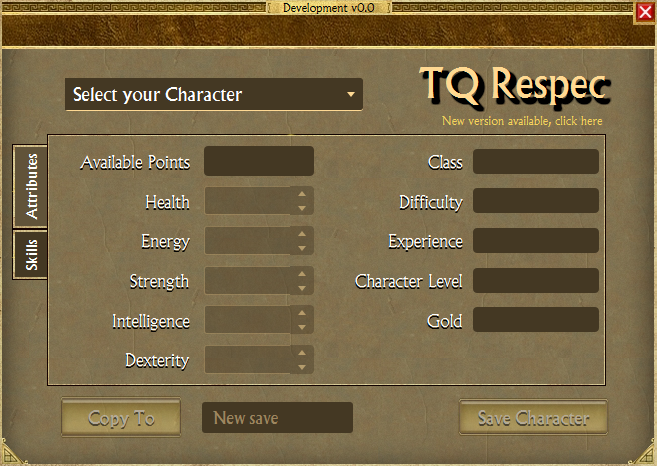
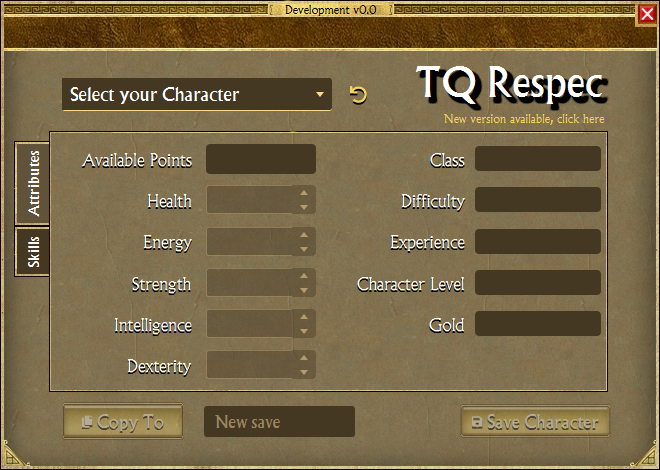
Version 0.7.0

diff --git a/README.md b/README.md
@@ -22,10 +22,25 @@ This software requires **Microsoft Windows 64-bit** (tested with Windows 7, 8, 8
 
 #### ***Before you start***
 
-Keep in mind that this software make modifications to your save game (more specifically the file Player.chr). You shouldn't run this software while the game is running, you can corrupt your save game. So, always close the game before opening TQRespec.
+Keep in mind that this software make modifications to your save game (more specifically the file Player.chr). You shouldn't modify your characters while the game is running, you can corrupt your save game. ***YOU SHOULD ALWAYS KEEP A FULL BACKUP OF YOUR SAVE GAME FOLDER*** (Documents/My Games/Titan Quest - Immortal Throne).
 
 ![TQRespec Screenshot 1](https://raw.githubusercontent.com/epinter/tqrespec/master/assets/screenshot_attributes.png "Attributes")
 ![TQRespec Screenshot 2](https://raw.githubusercontent.com/epinter/tqrespec/master/assets/screenshot_skills.png "Skills")
+
+#### ***Running without the game installed***
+
+This application uses game data. If you want to run it on a PC that doesn't have the game installed, make sure you have a 'gamedata' directory with Database and Text resources inside it. The structure should look like this:
+
+~~~
+TQRespec/app
+TQRespec/runtime
+TQRespec/gamedata/Database
+TQRespec/gamedata/Text
+TQRespec/TQRespec.exe
+~~~
+
+Where Database and Text folders (with its contents) are copied from the game.
+The savegame needs to be at the same location as the game uses (Documents/My Games/...).
 
 #### ***Use it!***
 
@@ -37,7 +52,9 @@ There are five attributes available to change (Health, Energy, Strength, Intelli
 
 #### ***Skills***
 
-Now if you change to Skills tab, you will see two lists with the skills of your character. Below this lists, there are two buttons for each. The first button "Reclaim All Skills Points" will remove all points allocated on skills on that mastery and make the points available to use in game. The button "Reclaim Mastery Points" permits you to reduce the mastery level. If you have a mastery on level 24 and 7 skills with points allocated, you can click on first button to have the points from the 7 skills back to you, then on the other button to have 23 points back from the mastery, so you will have the mastery with just 1 point allocated.
+Now if you change to Skills tab, you will see two lists with the skills of your character. Below this lists, there are two buttons for each. The first button "Reclaim All Skills Points" will remove all points allocated on skills on that mastery and make the points available to use in game. The button "Mastery" permits you to reduce the mastery level to 1 or remove the mastery completely.
+
+If you have a mastery on level 24 and 7 skills with points allocated, you can click on "Reclaim All Skills Points" to have the points from the 7 skills back to you. Then you click on "Mastery / Reclaim" to have 23 points back from the mastery, so you will have the mastery with just 1 point allocated, or you can click on "Mastery / Remove" to have all 24 points from mastery.
 
 #### ***Copy your character***
 

diff --git a/CHANGELOG.md b/CHANGELOG.md
@@ -1,5 +1,21 @@
 # Changelog
 
+## [0.7.0] - 2019-07-14
+### Added
+- Mastery removal feature ([#5](https://github.com/epinter/tqrespec/issues/5))
+- Reset button
+- Added feature to run without game installed, reads gamedata from a directory ([#9](https://github.com/epinter/tqrespec/issues/9))
+- Block TQRespec usage when game is running ([#7](https://github.com/epinter/tqrespec/issues/7))
+- Added icons to buttons
+
+### Changed
+- Parsing process rewritten
+- Before loading character, verify that every data in savegame is known, aborts if not
+
+### Fixed
+- Don't crash if Steam is not installed
+- Fixed minor bug on window resize 
+
 ## [0.6.1] - 2019-07-06
 ### Fixed
 - Fixed GOG library detection
@@ -63,3 +79,11 @@
 ## [0.1.1] - 2018-01-07
 ### Added
 - Initial testing version, core classes, without GUI
+
+[unreleased]: https://github.com/epinter/tqrespec/compare/v0.7.0...HEAD
+[0.7.0]: https://github.com/epinter/tqrespec/compare/v0.6.1...v0.7.0
+[0.6.1]: https://github.com/epinter/tqrespec/compare/v0.6.0...v0.6.1
+[0.6.0]: https://github.com/epinter/tqrespec/compare/v0.2.1...v0.6.0
+[0.2.1]: https://github.com/epinter/tqrespec/compare/v0.2.0...v0.2.1
+[0.2.0]: https://github.com/epinter/tqrespec/compare/v0.1.2...v0.2.0
+[0.1.2]: https://github.com/epinter/tqrespec/compare/v0.1.1...v0.1.2
